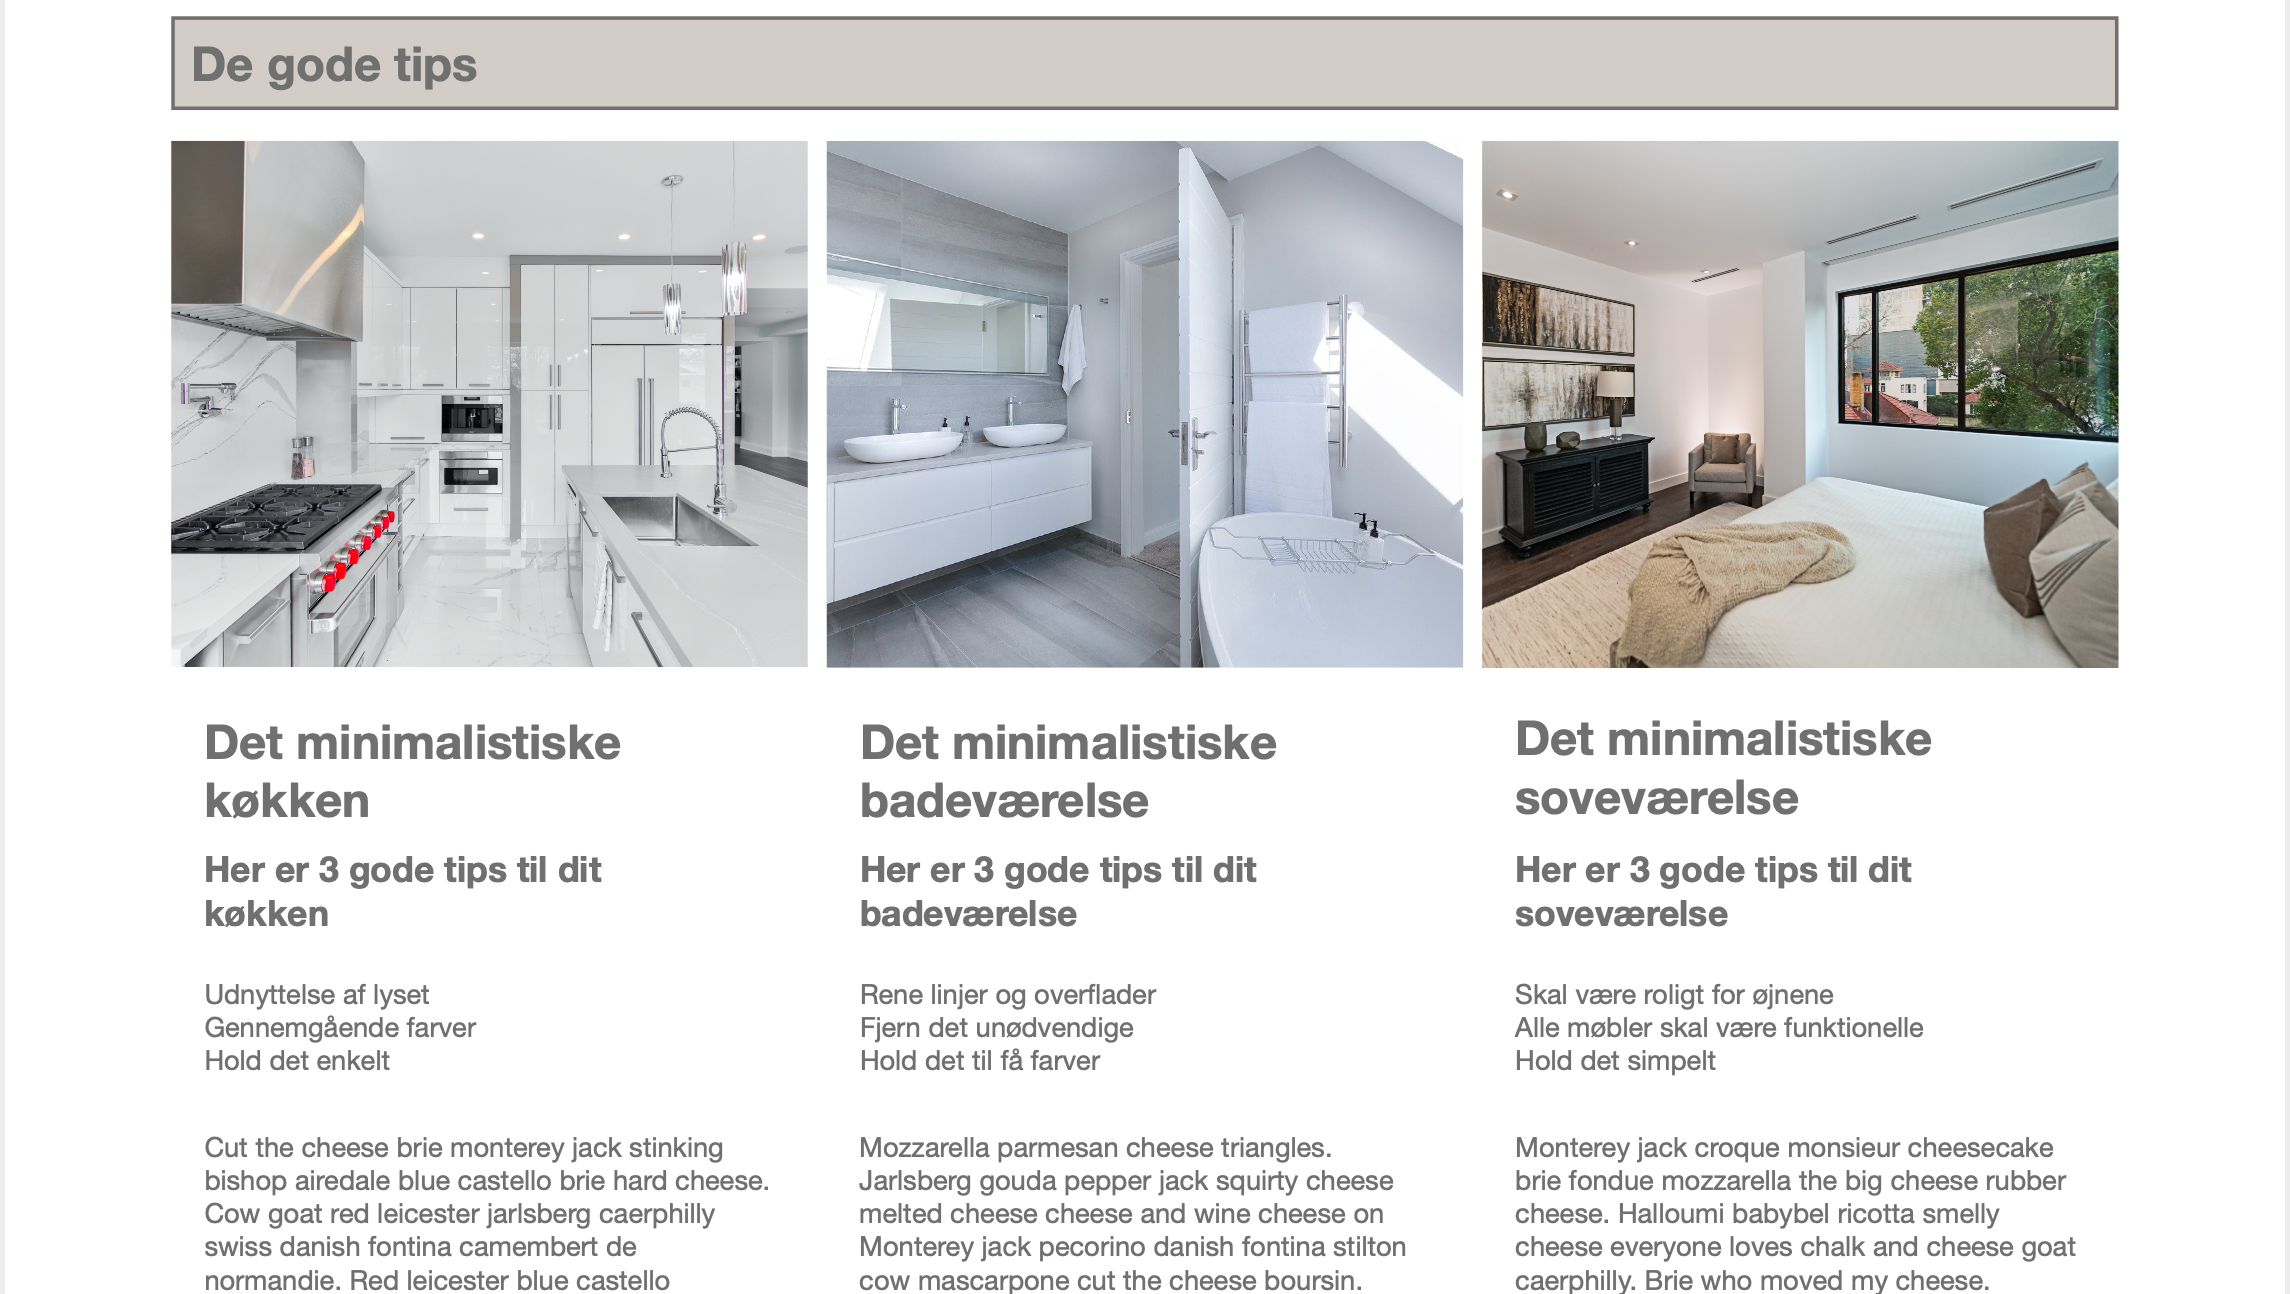
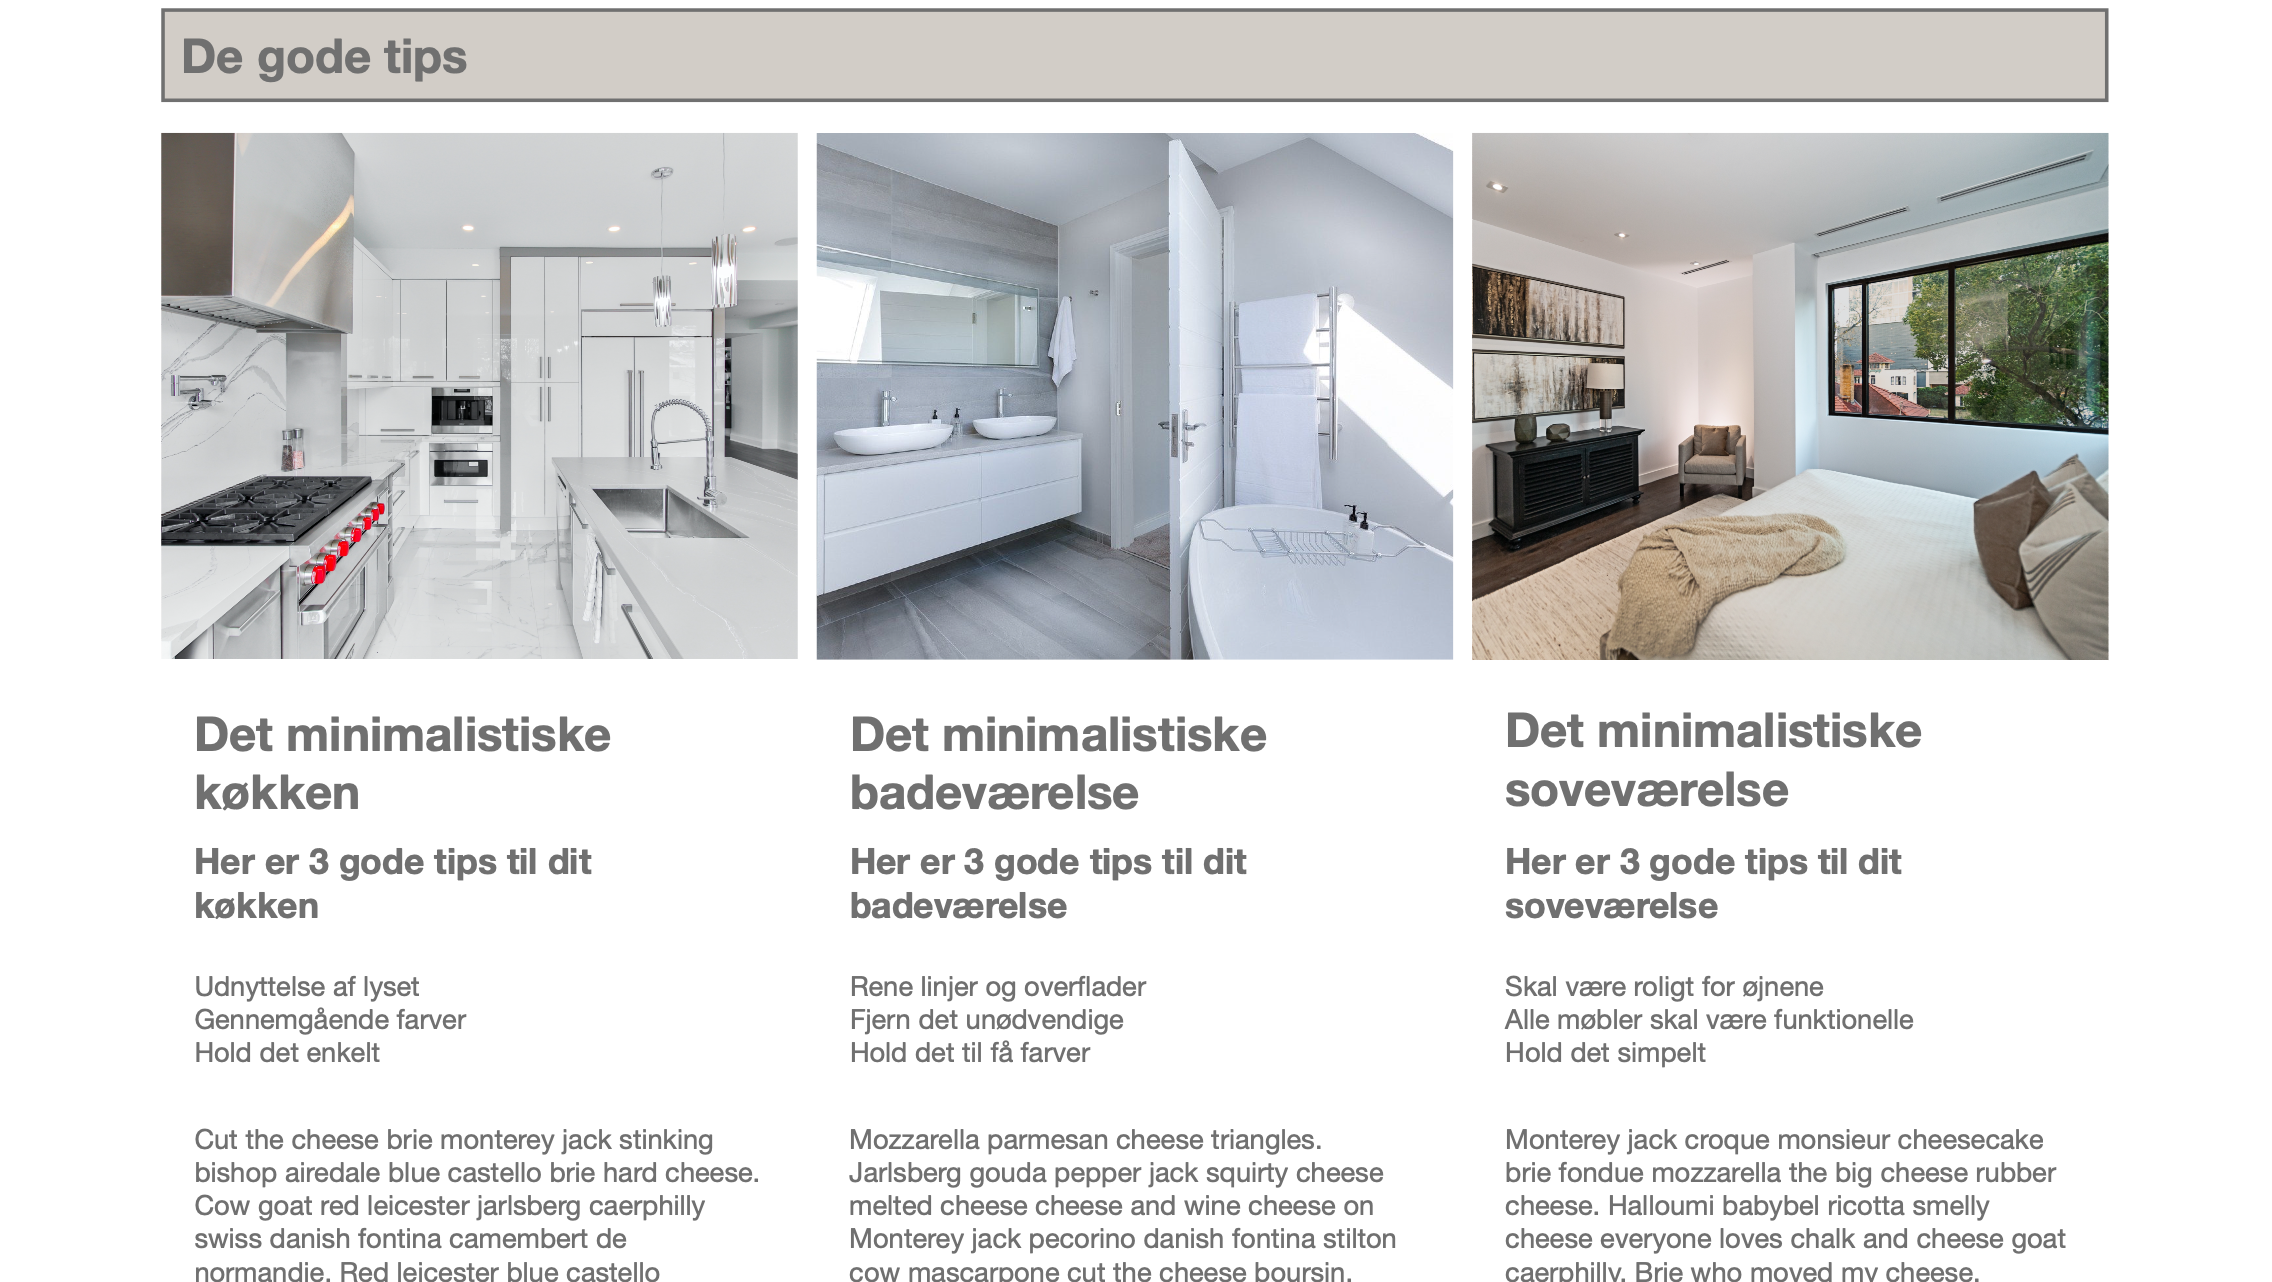
donee

diff --git a/web.css b/web.css
@@ -73,12 +73,13 @@ nav a:hover {
 .slider {
     overflow: hidden;
     margin: 0;
-    margin-right: 10vw;
+    margin-right: 6vw;
+    margin-left: 5.5vw;
 }
 
 .slider figure {
     position: relative;
-    width: 500%;
+    width: 403%;
     animation: 20s slider infinite;
 }
 
@@ -89,24 +90,30 @@ figure img {
 .slider_01 {
     overflow: hidden;
     margin: 0;
-    margin-right: 10vw;
+    margin-right: 6vw;
+    margin-left: 5.5vw;
 }
 
 .slider_01 figure {
     position: relative;
-    width: 500%;
+    width: 403%;
     animation: 20s slider infinite;
+}
+
+.slider_01 figure img {
+    width: 89vw;
 }
 
 .slider_02 {
     overflow: hidden;
     margin: 0;
-    margin-right: 10vw;
+    margin-right: 6vw;
+    margin-left: 5.5vw;
 }
 
 .slider_02 figure {
     position: relative;
-    width: 500%;
+    width: 403%;
     animation: 20s slider infinite;
 }
 
@@ -202,7 +209,7 @@ p {
 #en_section a {
     font-family: 'Montserrat', sans-serif;
     font-weight: 100;
-    font-size: 1.9vw;
+    font-size: 1.2vw;
     color: gray;
 }
 
@@ -358,11 +365,15 @@ hr {
 
     /*-------------------MAIN START--------------*/
     figure img {
-        width: 85vw;
+        width: 70vw;
+    }
+
+    .slider_01 figure img {
+        width: 70vw;
     }
 
     .slider_02 figure img {
-        width: 79.1vw;
+        width: 65vw;
     }
 
     main {
@@ -380,7 +391,7 @@ hr {
     }
 
     #fire_section {
-        margin-top: 50px;
+        margin-top: 30px;
     }
 
     #fire_section .section_wrapper {
@@ -408,7 +419,7 @@ hr {
     }
 
     nav.toggle {
-        margin-left: 200px;
+        margin-left: 100px;
         margin-right: 6px;
     }
 }
@@ -426,11 +437,15 @@ hr {
     }
 
     figure img {
-        width: 76vw;
+        width: 75vw;
+    }
+
+    .slider_01 figure img {
+        width: 75vw;
     }
 
     .slider_02 figure img {
-        width: 72.4vw;
+        width: 70.6vw;
     }
 
 }
@@ -440,23 +455,29 @@ hr {
     .topbar img {
         width: 11vw;
         height: auto;
+        margin-top: 3.4px;
+        margin-left: 11px
     }
 
     main {
-        margin-left: 200px;
-        margin-right: 200px;
+        margin-left: 250px;
+        margin-right: 250px;
     }
 
     nav.toggle {
-        margin-left: 550px;
-        margin-right: 6px;
+        margin-left: 530px;
+        margin-right: 50px;
     }
 
     figure img {
-        width: 52.6vw;
+        width: 43.9vw;
+    }
+
+    .slider_01 figure img {
+        width: 44vw;
     }
 
     .slider_02 figure img {
-        width: 49.6vw;
+        width: 41vw;
     }
 }
